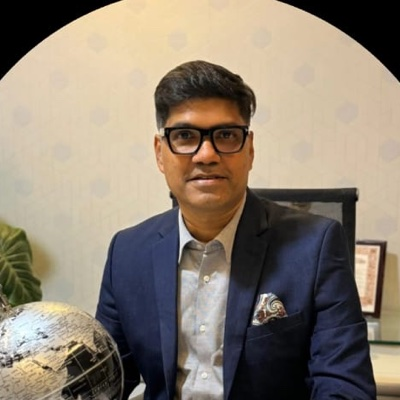
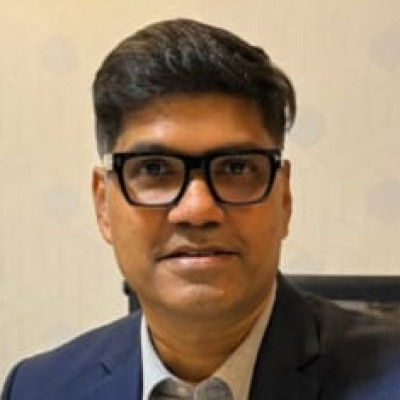
Update preview build

diff --git a/about/index.html b/about/index.html
@@ -17,7 +17,7 @@
   <link rel="preconnect" href="https://fonts.googleapis.com">
   <link rel="preconnect" href="https://fonts.gstatic.com" crossorigin>
   <link rel="stylesheet" href="https://fonts.googleapis.com/css2?family=Inter:wght@400;500;600&family=Montserrat:wght@500;600;700&display=swap">
-  <link rel="stylesheet" href="/metier/assets/css/main.css?v=1791480609">
+  <link rel="stylesheet" href="/metier/assets/css/main.css?v=1791480936">
   <script>document.documentElement.classList.add('js');</script>
   <script src="/metier/assets/js/main.js?v=1791085330" defer></script>
 </head>
@@ -73,7 +73,7 @@
     <div class="team-grid">
               <article class="person reveal">
           <div class="person__top">
-            <img class="person__photo" src="/metier/assets/img/team/rehan.jpg?v=1790675952" alt="Rehan Ligoury Farias" width="112" height="112" loading="lazy">
+            <img class="person__photo" src="/metier/assets/img/team/rehan.jpg?v=1790675952" alt="Rehan Ligoury Farias" width="120" height="120" loading="lazy">
             <div>
               <h3 class="person__name">Rehan Ligoury Farias</h3>
               <p class="person__role">Chief Executive Officer</p>
@@ -88,7 +88,7 @@
         </article>
               <article class="person reveal">
           <div class="person__top">
-            <img class="person__photo" src="/metier/assets/img/team/alan.jpg?v=1790675952" alt="Alan Cyril Castelino" width="112" height="112" loading="lazy">
+            <img class="person__photo" src="/metier/assets/img/team/alan.jpg?v=1791480993" alt="Alan Cyril Castelino" width="120" height="120" loading="lazy">
             <div>
               <h3 class="person__name">Alan Cyril Castelino</h3>
               <p class="person__role">Chief Business Officer</p>

diff --git a/assets/css/main.css b/assets/css/main.css
@@ -210,7 +210,7 @@ body.nav-open .nav-toggle .icon-close { display: block; }
 @media (max-width: 860px) { .team-grid { grid-template-columns: 1fr; } }
 .person { display: flex; flex-direction: column; background: #fff; border: 1px solid var(--line); border-radius: 20px; padding: 2rem; box-shadow: var(--shadow); }
 .person__top { display: flex; gap: 1.25rem; align-items: center; margin-bottom: 1.25rem; }
-.person__photo { width: 112px; height: 112px; flex: none; border-radius: 50%; object-fit: cover; border: 3px solid var(--gold); background: var(--tint); }
+.person__photo { width: 120px; height: 120px; flex: none; border-radius: 50%; object-fit: cover; padding: 5px; background: linear-gradient(135deg, #F3D58A, var(--gold) 45%, #A87A1F 70%, #E4B75A); box-shadow: 0 4px 14px rgba(168, 122, 31, .35); }
 .person__name { margin: 0 0 .2rem; font-size: 1.25rem; }
 .person__role { margin: 0; color: var(--gold-ink); font-family: var(--font-head); font-weight: 600; font-size: .8rem; letter-spacing: .1em; text-transform: uppercase; }
 .person__bio p { color: var(--muted); font-size: .98rem; }

diff --git a/404.html b/404.html
@@ -17,7 +17,7 @@
   <link rel="preconnect" href="https://fonts.googleapis.com">
   <link rel="preconnect" href="https://fonts.gstatic.com" crossorigin>
   <link rel="stylesheet" href="https://fonts.googleapis.com/css2?family=Inter:wght@400;500;600&family=Montserrat:wght@500;600;700&display=swap">
-  <link rel="stylesheet" href="/metier/assets/css/main.css?v=1791480609">
+  <link rel="stylesheet" href="/metier/assets/css/main.css?v=1791480936">
   <script>document.documentElement.classList.add('js');</script>
   <script src="/metier/assets/js/main.js?v=1791085330" defer></script>
 </head>

diff --git a/approach/index.html b/approach/index.html
@@ -17,7 +17,7 @@
   <link rel="preconnect" href="https://fonts.googleapis.com">
   <link rel="preconnect" href="https://fonts.gstatic.com" crossorigin>
   <link rel="stylesheet" href="https://fonts.googleapis.com/css2?family=Inter:wght@400;500;600&family=Montserrat:wght@500;600;700&display=swap">
-  <link rel="stylesheet" href="/metier/assets/css/main.css?v=1791480609">
+  <link rel="stylesheet" href="/metier/assets/css/main.css?v=1791480936">
   <script>document.documentElement.classList.add('js');</script>
   <script src="/metier/assets/js/main.js?v=1791085330" defer></script>
 </head>

diff --git a/contact/index.html b/contact/index.html
@@ -17,7 +17,7 @@
   <link rel="preconnect" href="https://fonts.googleapis.com">
   <link rel="preconnect" href="https://fonts.gstatic.com" crossorigin>
   <link rel="stylesheet" href="https://fonts.googleapis.com/css2?family=Inter:wght@400;500;600&family=Montserrat:wght@500;600;700&display=swap">
-  <link rel="stylesheet" href="/metier/assets/css/main.css?v=1791480609">
+  <link rel="stylesheet" href="/metier/assets/css/main.css?v=1791480936">
   <script>document.documentElement.classList.add('js');</script>
   <script src="/metier/assets/js/main.js?v=1791085330" defer></script>
 </head>

diff --git a/index.html b/index.html
@@ -17,7 +17,7 @@
   <link rel="preconnect" href="https://fonts.googleapis.com">
   <link rel="preconnect" href="https://fonts.gstatic.com" crossorigin>
   <link rel="stylesheet" href="https://fonts.googleapis.com/css2?family=Inter:wght@400;500;600&family=Montserrat:wght@500;600;700&display=swap">
-  <link rel="stylesheet" href="/metier/assets/css/main.css?v=1791480609">
+  <link rel="stylesheet" href="/metier/assets/css/main.css?v=1791480936">
   <script>document.documentElement.classList.add('js');</script>
   <script src="/metier/assets/js/main.js?v=1791085330" defer></script>
 </head>

diff --git a/solutions/change-management/index.html b/solutions/change-management/index.html
@@ -17,7 +17,7 @@
   <link rel="preconnect" href="https://fonts.googleapis.com">
   <link rel="preconnect" href="https://fonts.gstatic.com" crossorigin>
   <link rel="stylesheet" href="https://fonts.googleapis.com/css2?family=Inter:wght@400;500;600&family=Montserrat:wght@500;600;700&display=swap">
-  <link rel="stylesheet" href="/metier/assets/css/main.css?v=1791480609">
+  <link rel="stylesheet" href="/metier/assets/css/main.css?v=1791480936">
   <script>document.documentElement.classList.add('js');</script>
   <script src="/metier/assets/js/main.js?v=1791085330" defer></script>
 </head>

diff --git a/solutions/employee-value-proposition/index.html b/solutions/employee-value-proposition/index.html
@@ -17,7 +17,7 @@
   <link rel="preconnect" href="https://fonts.googleapis.com">
   <link rel="preconnect" href="https://fonts.gstatic.com" crossorigin>
   <link rel="stylesheet" href="https://fonts.googleapis.com/css2?family=Inter:wght@400;500;600&family=Montserrat:wght@500;600;700&display=swap">
-  <link rel="stylesheet" href="/metier/assets/css/main.css?v=1791480609">
+  <link rel="stylesheet" href="/metier/assets/css/main.css?v=1791480936">
   <script>document.documentElement.classList.add('js');</script>
   <script src="/metier/assets/js/main.js?v=1791085330" defer></script>
 </head>

diff --git a/solutions/hr-digitization-automation/index.html b/solutions/hr-digitization-automation/index.html
@@ -17,7 +17,7 @@
   <link rel="preconnect" href="https://fonts.googleapis.com">
   <link rel="preconnect" href="https://fonts.gstatic.com" crossorigin>
   <link rel="stylesheet" href="https://fonts.googleapis.com/css2?family=Inter:wght@400;500;600&family=Montserrat:wght@500;600;700&display=swap">
-  <link rel="stylesheet" href="/metier/assets/css/main.css?v=1791480609">
+  <link rel="stylesheet" href="/metier/assets/css/main.css?v=1791480936">
   <script>document.documentElement.classList.add('js');</script>
   <script src="/metier/assets/js/main.js?v=1791085330" defer></script>
 </head>

diff --git a/solutions/index.html b/solutions/index.html
@@ -17,7 +17,7 @@
   <link rel="preconnect" href="https://fonts.googleapis.com">
   <link rel="preconnect" href="https://fonts.gstatic.com" crossorigin>
   <link rel="stylesheet" href="https://fonts.googleapis.com/css2?family=Inter:wght@400;500;600&family=Montserrat:wght@500;600;700&display=swap">
-  <link rel="stylesheet" href="/metier/assets/css/main.css?v=1791480609">
+  <link rel="stylesheet" href="/metier/assets/css/main.css?v=1791480936">
   <script>document.documentElement.classList.add('js');</script>
   <script src="/metier/assets/js/main.js?v=1791085330" defer></script>
 </head>

diff --git a/solutions/leadership-development/index.html b/solutions/leadership-development/index.html
@@ -17,7 +17,7 @@
   <link rel="preconnect" href="https://fonts.googleapis.com">
   <link rel="preconnect" href="https://fonts.gstatic.com" crossorigin>
   <link rel="stylesheet" href="https://fonts.googleapis.com/css2?family=Inter:wght@400;500;600&family=Montserrat:wght@500;600;700&display=swap">
-  <link rel="stylesheet" href="/metier/assets/css/main.css?v=1791480609">
+  <link rel="stylesheet" href="/metier/assets/css/main.css?v=1791480936">
   <script>document.documentElement.classList.add('js');</script>
   <script src="/metier/assets/js/main.js?v=1791085330" defer></script>
 </head>

diff --git a/solutions/learning-development/index.html b/solutions/learning-development/index.html
@@ -17,7 +17,7 @@
   <link rel="preconnect" href="https://fonts.googleapis.com">
   <link rel="preconnect" href="https://fonts.gstatic.com" crossorigin>
   <link rel="stylesheet" href="https://fonts.googleapis.com/css2?family=Inter:wght@400;500;600&family=Montserrat:wght@500;600;700&display=swap">
-  <link rel="stylesheet" href="/metier/assets/css/main.css?v=1791480609">
+  <link rel="stylesheet" href="/metier/assets/css/main.css?v=1791480936">
   <script>document.documentElement.classList.add('js');</script>
   <script src="/metier/assets/js/main.js?v=1791085330" defer></script>
 </head>
